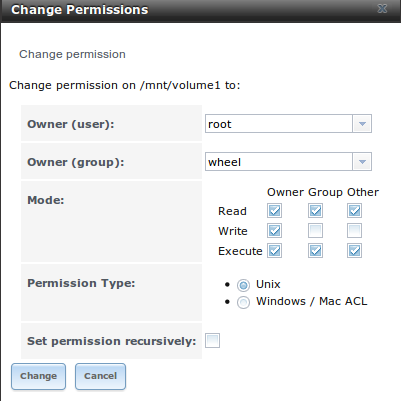
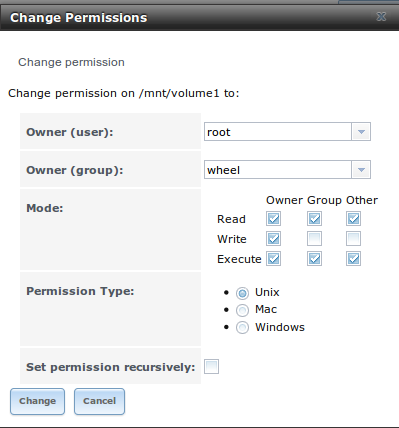
Update permissions screenshot and table. Waiting for more info before updating when to use each.
Former-commit-id: 12057af217068d533e961874059e09c1e77e2df3

diff --git a/docs/userguide/freenas_storage.rst b/docs/userguide/freenas_storage.rst
@@ -643,7 +643,7 @@ Once a volume or dataset is created, it will be listed by its mount point name i
 
 .. |perms1.png| image:: images/perms1.png
     :width: 3.4in
-    :height: 3.3in
+    :height: 3.6in
 
 **Table 8.1d: Options When Changing Permissions**
 
@@ -661,13 +661,14 @@ Once a volume or dataset is created, it will be listed by its mount point name i
 |                            |                  |                                                                                                            |
 +----------------------------+------------------+------------------------------------------------------------------------------------------------------------+
 | Mode                       | checkboxes       | only applies to the *Unix* "Permission Type" so will be greyed out if                                      |
-|                            |                  | *Windows/Mac ACL* is selected                                                                              |
+|                            |                  | *Mac* or                                                                                                   |
+|                            |                  | *Windows* is selected                                                                                      |
 |                            |                  |                                                                                                            |
 +----------------------------+------------------+------------------------------------------------------------------------------------------------------------+
-| Permission Type            | bullet selection | *Unix* and                                                                                                 |
-|                            |                  | *Windows/Mac ACL* are mutually exclusive, this means that                                                  |
-|                            |                  | **you must select the correct permission type for the share**; see the paragraphs below this Table for     |
-|                            |                  | more details                                                                                               |
+| Permission Type            | bullet selection | choices are *Unix*,                                                                                        |
+|                            |                  | *Mac* or                                                                                                   |
+|                            |                  | *Windows*; see the paragraphs below this Table for                                                         |
+|                            |                  | more details about which "Permission Type" to choose                                                       |
 |                            |                  |                                                                                                            |
 +----------------------------+------------------+------------------------------------------------------------------------------------------------------------+
 | Set permission recursively | checkbox         | if checked, permissions will also apply to subdirectories of the volume or dataset; if data already exists |
@@ -676,7 +677,7 @@ Once a volume or dataset is created, it will be listed by its mount point name i
 +----------------------------+------------------+------------------------------------------------------------------------------------------------------------+
 
 
-When in doubt, or if you have a mix of operating systems in your network, select the *Unix* "Permission Type" as all clients understand them. 
+When in doubt, or if you have a mix of operating systems in your network, select the *Unix* "Permission Type" as all clients understand them.
 *Windows/Mac ACLs* add a superset of permissions that augment those provided by
 *Unix* and are the preferred option within an Active Directory domain. While Windows and Mac clients also understand
 *Unix* permissions, they won't benefit from the extra permissions provided by Active Directory and ACLs when

diff --git a/docs/userguide/freenas_intro.rst b/docs/userguide/freenas_intro.rst
@@ -242,7 +242,11 @@ The following fields have been added or deleted:
 
 * An "Upgrade" button has been added to the available icons for a highlighted volume in :menuselection:`Storage --> Volumes --> View Volumes`. This means that
   you no longer need to upgrade a ZFS pool from the command line.
-  
+
+* The "Change Permissions" screen for a volume or dataset now has three "Permission Type"s: *Unix*, 
+  *Mac*, and
+  *Windows*.
+
 * The "Volume Status" screen now shows the status of the latest ZFS scrub, the number of errors, number of repaired blocks, and the date of the last scrub.
 
 * The "Volume Status" screen now shows the resilvering status when a disk is replaced.
